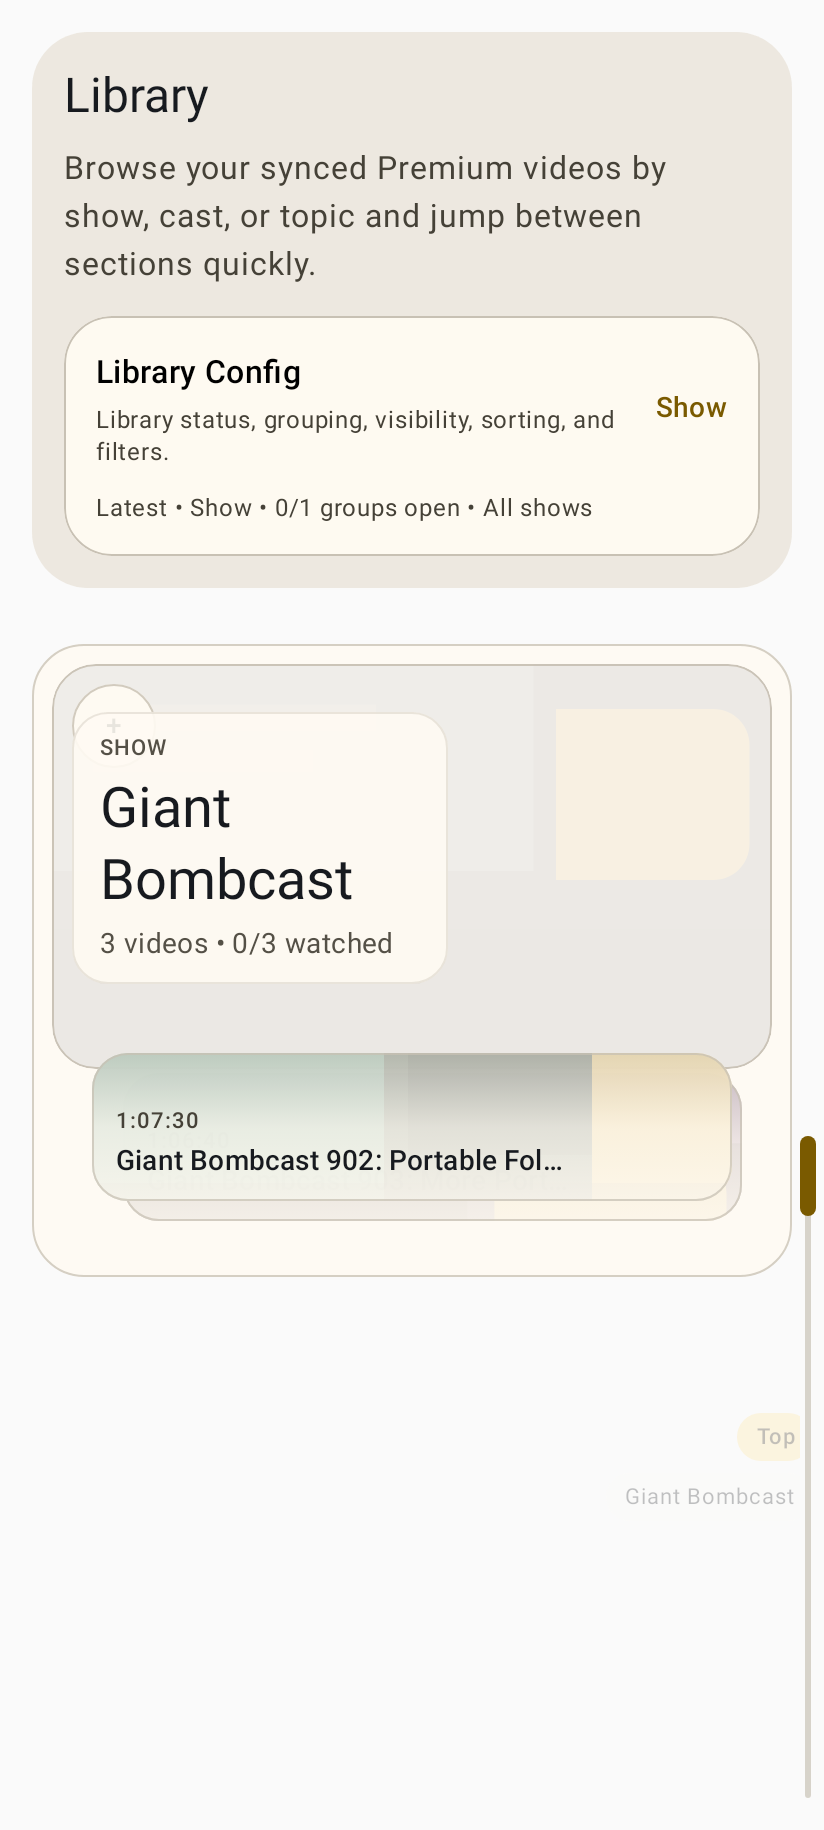
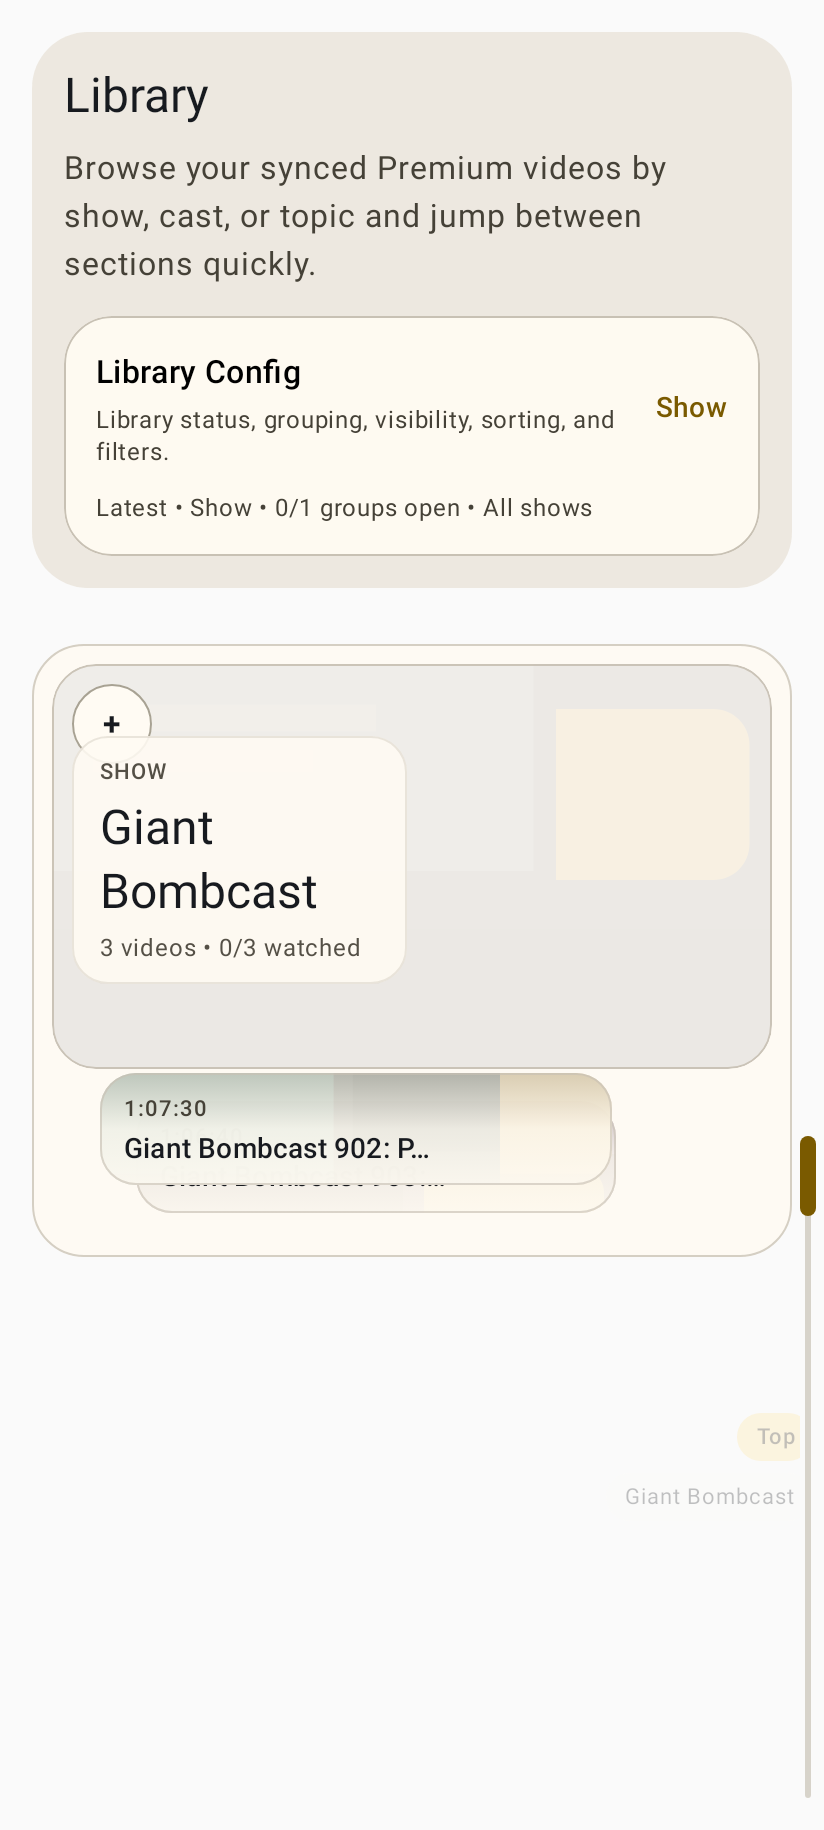
Refine grouped header stacking and mosaic polish

diff --git a/feature/library/src/main/java/com/looktube/feature/library/LibraryRoute.kt b/feature/library/src/main/java/com/looktube/feature/library/LibraryRoute.kt
@@ -625,7 +625,11 @@ private fun CollapsedHeaderPreviewStack(
                 video = video,
                 textEndPadding = textEndPadding,
                 modifier = Modifier
-                    .align(Alignment.TopCenter)
+                    .align(Alignment.TopStart)
+                    .padding(
+                        start = GROUP_HEADER_PREVIEW_CARD_START_PADDING,
+                        end = GROUP_HEADER_PREVIEW_CARD_END_PADDING,
+                    )
                     .offset(
                         x = collapsedHeaderPeekHorizontalOffset(index),
                         y = peekOffsets[index],
@@ -648,9 +652,9 @@ private fun CollapsedHeaderPreviewCard(
     Surface(
         modifier = modifier,
         shape = RoundedCornerShape(18.dp),
-        color = MaterialTheme.colorScheme.surface.copy(alpha = 0.9f),
+        color = MaterialTheme.colorScheme.surface.copy(alpha = 0.84f),
         tonalElevation = 0.dp,
-        border = BorderStroke(1.dp, MaterialTheme.colorScheme.outlineVariant.copy(alpha = 0.74f)),
+        border = BorderStroke(1.dp, MaterialTheme.colorScheme.outlineVariant.copy(alpha = 0.64f)),
     ) {
         Box(
             modifier = Modifier.fillMaxSize(),
@@ -666,7 +670,7 @@ private fun CollapsedHeaderPreviewCard(
                     contentDescription = null,
                     modifier = Modifier.fillMaxSize(),
                     contentScale = ContentScale.Crop,
-                    alpha = 0.26f,
+                    alpha = 0.2f,
                 )
             }
             Box(
@@ -675,9 +679,9 @@ private fun CollapsedHeaderPreviewCard(
                     .background(
                         Brush.verticalGradient(
                             colors = listOf(
-                                Color.Black.copy(alpha = 0.06f),
-                                MaterialTheme.colorScheme.surface.copy(alpha = 0.58f),
-                                MaterialTheme.colorScheme.surface.copy(alpha = 0.82f),
+                                Color.Black.copy(alpha = 0.1f),
+                                MaterialTheme.colorScheme.surface.copy(alpha = 0.68f),
+                                MaterialTheme.colorScheme.surface.copy(alpha = 0.9f),
                             ),
                         ),
                     ),
@@ -1189,13 +1193,15 @@ internal fun collapsedHeaderPeekReveal(videoCount: Int): Dp {
 }
 
 private const val GROUP_HEADER_MAX_PEEK_COUNT = 3
-private val GROUP_HEADER_PEEK_REVEAL_STEP = 10.dp
-private val GROUP_HEADER_PEEK_HORIZONTAL_STAGGER = 10.dp
-private const val GROUP_HEADER_PEEK_CARD_WIDTH_FRACTION = 0.92f
-private val GROUP_HEADER_COMPACT_PREVIEW_CARD_HEIGHT = 74.dp
+private val GROUP_HEADER_PEEK_REVEAL_STEP = 14.dp
+private val GROUP_HEADER_PEEK_HORIZONTAL_STAGGER = 18.dp
+private const val GROUP_HEADER_PEEK_CARD_WIDTH_FRACTION = 0.82f
+private val GROUP_HEADER_COMPACT_PREVIEW_CARD_HEIGHT = 56.dp
 private val GROUP_HEADER_COLLAPSED_HEADER_MIN_HEIGHT = 170.dp
 private val GROUP_HEADER_EXPANDED_HEADER_MIN_HEIGHT = 236.dp
-private val GROUP_HEADER_COLLAPSED_PREVIEW_OVERLAP = (-18).dp
+private val GROUP_HEADER_COLLAPSED_PREVIEW_OVERLAP = (-12).dp
+private val GROUP_HEADER_PREVIEW_CARD_START_PADDING = 18.dp
+private val GROUP_HEADER_PREVIEW_CARD_END_PADDING = 18.dp
 private val GROUP_HEADER_BACKDROP_TILE_BLEED = 8.dp
 private const val GROUP_HEADER_BACKDROP_POSITION_JITTER = 0.015f
 private const val GROUP_HEADER_BACKDROP_WIDTH_JITTER = 0.02f
@@ -1215,11 +1221,12 @@ private val GROUP_HEADER_BACKDROP_BASE_TILE_SPECS = listOf(
     GroupHeaderBackdropTileSpec(xFraction = 0.62f, yFraction = 0.46f, widthFraction = 0.38f, heightFraction = 0.28f),
 )
 private val GroupHeaderBackdropPalette = listOf(
-    Color(0xFF44556B),
-    Color(0xFF6A503C),
-    Color(0xFF3C5F58),
-    Color(0xFF65506A),
-    Color(0xFF586842),
+    Color(0xFF4F57CC),
+    Color(0xFFAF4C86),
+    Color(0xFF69BD5B),
+    Color(0xFFF2A126),
+    Color(0xFF5FA8CE),
+    Color(0xFFF3C56F),
 )
 
 private fun groupHeaderBackdropColor(
@@ -1253,14 +1260,11 @@ private fun Random.centeredJitter(magnitude: Float): Float = (nextFloat() - 0.5f
 private fun collapsedHeaderPreviewStackHeight(videoCount: Int): Dp =
     GROUP_HEADER_COMPACT_PREVIEW_CARD_HEIGHT + collapsedHeaderPeekReveal(videoCount)
 
-private fun collapsedHeaderPeekHorizontalOffset(index: Int): Dp = when (index % 3) {
-    0 -> 0.dp
-    1 -> GROUP_HEADER_PEEK_HORIZONTAL_STAGGER
-    else -> -GROUP_HEADER_PEEK_HORIZONTAL_STAGGER
-}
+private fun collapsedHeaderPeekHorizontalOffset(index: Int): Dp =
+    GROUP_HEADER_PEEK_HORIZONTAL_STAGGER * index
 
 private fun collapsedHeaderPeekWidthFraction(index: Int): Float =
-    (GROUP_HEADER_PEEK_CARD_WIDTH_FRACTION - (index * 0.03f)).coerceAtLeast(0.84f)
+    (GROUP_HEADER_PEEK_CARD_WIDTH_FRACTION - (index * 0.05f)).coerceAtLeast(0.72f)
 
 private fun buildCollapsedHeaderPreviewMetadataLine(video: VideoSummary): String = buildList {
     video.publishedAtEpochMillis?.let(::formatPublishedDate)?.let(::add)
@@ -1777,12 +1781,12 @@ private fun SeriesSectionHeader(
                     modifier = Modifier
                         .align(Alignment.TopStart)
                         .padding(10.dp)
-                        .size(42.dp),
+                        .size(40.dp),
                     shape = CircleShape,
-                    color = MaterialTheme.colorScheme.surface.copy(alpha = 0.96f),
+                    color = MaterialTheme.colorScheme.surface.copy(alpha = 0.98f),
                     contentColor = MaterialTheme.colorScheme.onSurface,
                     tonalElevation = 0.dp,
-                    border = BorderStroke(1.dp, MaterialTheme.colorScheme.outlineVariant.copy(alpha = 0.82f)),
+                    border = BorderStroke(1.dp, MaterialTheme.colorScheme.outline.copy(alpha = 0.64f)),
                 ) {
                     Box(
                         modifier = Modifier.fillMaxSize(),
@@ -1790,8 +1794,8 @@ private fun SeriesSectionHeader(
                     ) {
                         Text(
                             text = if (isExpanded) "−" else "+",
-                            style = MaterialTheme.typography.titleSmall,
-                            fontWeight = FontWeight.SemiBold,
+                            style = MaterialTheme.typography.titleMedium,
+                            fontWeight = FontWeight.Bold,
                         )
                     }
                 }
@@ -1806,8 +1810,8 @@ private fun SeriesSectionHeader(
                             ),
                             bottom = 10.dp,
                         )
-                        .fillMaxWidth(if (isExpanded) 0.68f else 0.74f)
-                        .widthIn(max = if (isExpanded) 312.dp else 308.dp),
+                        .fillMaxWidth(if (isExpanded) 0.68f else 0.66f)
+                        .widthIn(max = if (isExpanded) 312.dp else 288.dp),
                     shape = RoundedCornerShape(18.dp),
                     color = MaterialTheme.colorScheme.surface.copy(alpha = 0.9f),
                     tonalElevation = 0.dp,
@@ -1827,7 +1831,7 @@ private fun SeriesSectionHeader(
                             style = if (isExpanded) {
                                 MaterialTheme.typography.titleLarge
                             } else {
-                                MaterialTheme.typography.headlineMedium
+                                MaterialTheme.typography.headlineSmall
                             },
                             color = MaterialTheme.colorScheme.onSurface,
                         )
@@ -1836,7 +1840,7 @@ private fun SeriesSectionHeader(
                             style = if (isExpanded) {
                                 MaterialTheme.typography.bodySmall
                             } else {
-                                MaterialTheme.typography.bodyMedium
+                                MaterialTheme.typography.bodySmall
                             },
                             color = MaterialTheme.colorScheme.onSurfaceVariant.copy(alpha = 0.92f),
                         )

diff --git a/feature/library/src/test/java/com/looktube/feature/library/LibraryGroupedHeaderGeometryTest.kt b/feature/library/src/test/java/com/looktube/feature/library/LibraryGroupedHeaderGeometryTest.kt
@@ -10,15 +10,14 @@ class LibraryGroupedHeaderGeometryTest {
     @Test
     fun collapsedHeaderPeekOffsetsUseEqualRevealSteps() {
         val offsets = collapsedHeaderPeekOffsets(videoCount = 5)
-
-        assertEquals(listOf(10.dp, 20.dp, 30.dp), offsets)
-        assertEquals(30.dp, collapsedHeaderPeekReveal(videoCount = 5))
+        assertEquals(listOf(14.dp, 28.dp, 42.dp), offsets)
+        assertEquals(42.dp, collapsedHeaderPeekReveal(videoCount = 5))
     }
 
     @Test
     fun collapsedHeaderPeeksOnlyCountVideosBehindTheLeadCard() {
         assertEquals(emptyList<Dp>(), collapsedHeaderPeekOffsets(videoCount = 1))
-        assertEquals(listOf(10.dp), collapsedHeaderPeekOffsets(videoCount = 2))
+        assertEquals(listOf(14.dp), collapsedHeaderPeekOffsets(videoCount = 2))
     }
 
     @Test

diff --git a/feature/library/src/test/java/com/looktube/feature/library/LibrarySortTest.kt b/feature/library/src/test/java/com/looktube/feature/library/LibrarySortTest.kt
@@ -465,8 +465,8 @@ class LibrarySortTest {
     fun collapsedHeaderPeekRevealOnlyUsesNeededDepth() {
         assertEquals(0.dp, collapsedHeaderPeekReveal(0))
         assertEquals(0.dp, collapsedHeaderPeekReveal(1))
-        assertEquals(20.dp, collapsedHeaderPeekReveal(3))
-        assertEquals(30.dp, collapsedHeaderPeekReveal(5))
+        assertEquals(28.dp, collapsedHeaderPeekReveal(3))
+        assertEquals(42.dp, collapsedHeaderPeekReveal(5))
     }
 
     @Test
